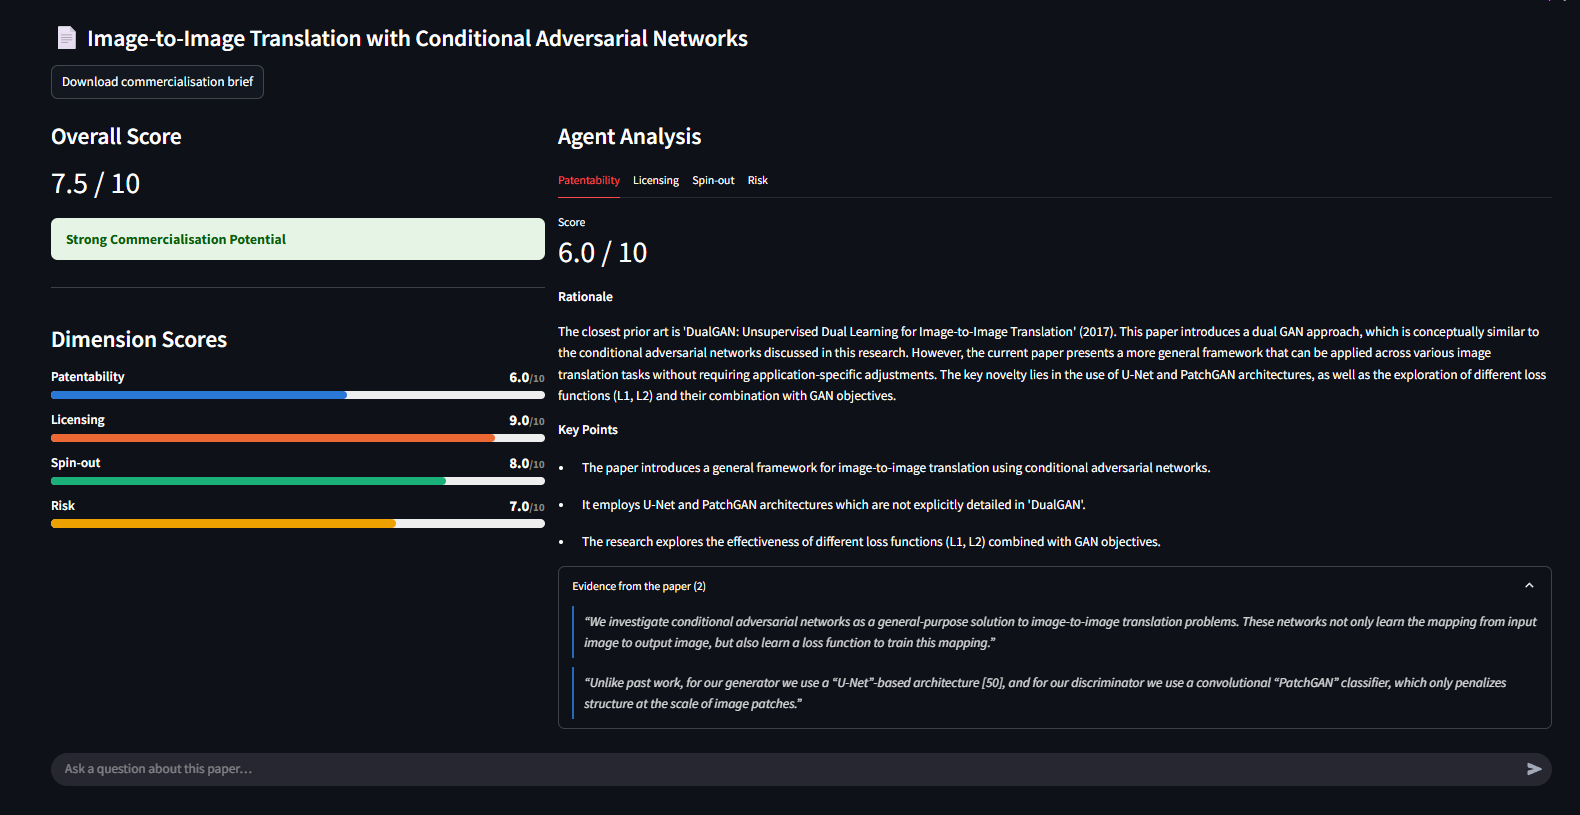
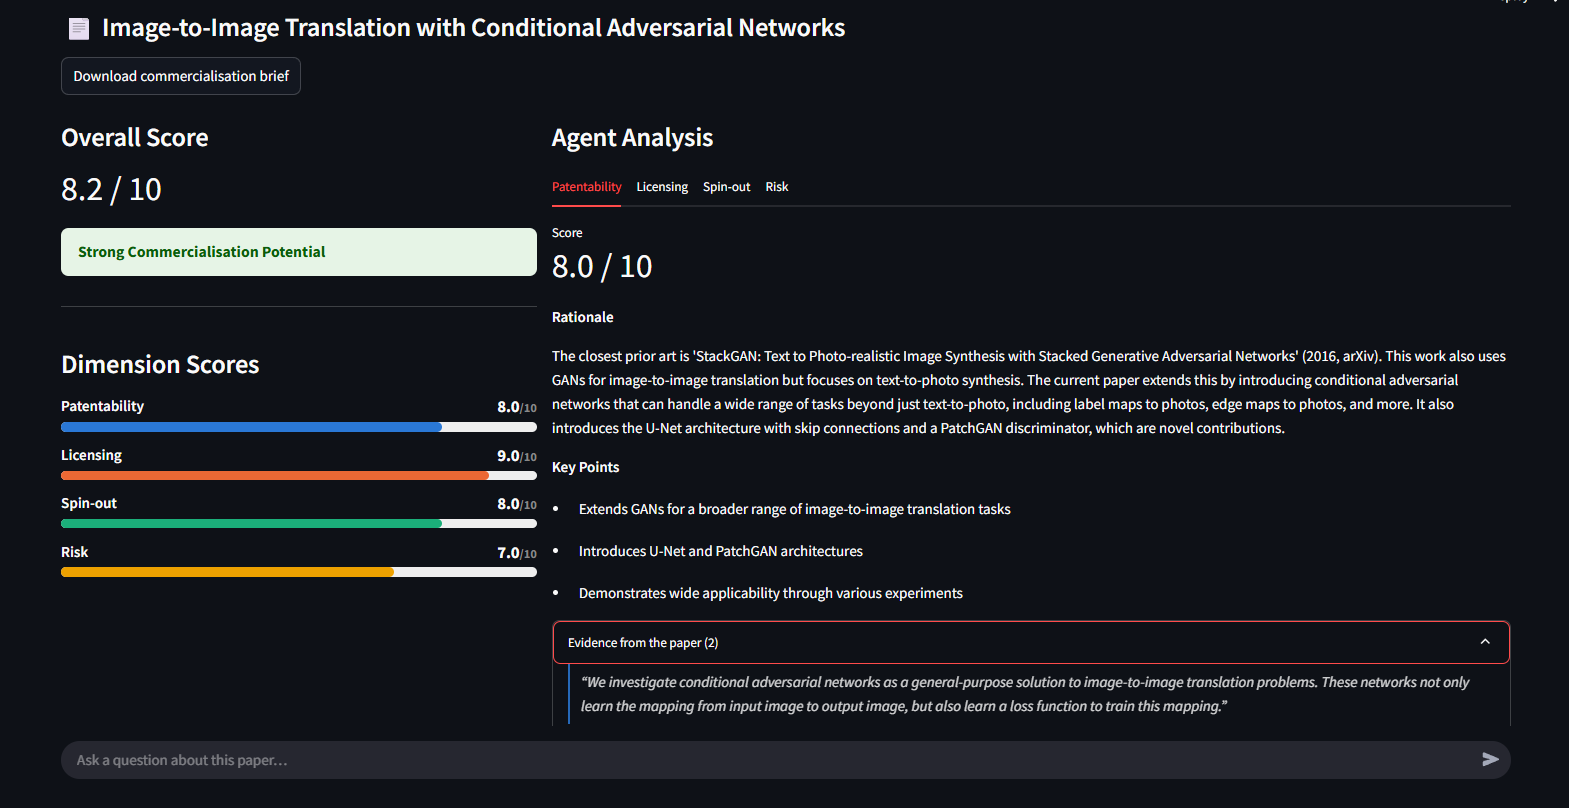
Update the README screenshot and notes after the prior-art fix
The screenshot showed the pre-fix run, whose rationale named DualGAN (2017) as
the closest prior art for a 2016 paper — the exact error the date filter was
added to remove. Replaced with the corrected run: 8.15 overall, patentability
8.0, and StackGAN (2016) named as the closest work.

Also corrects the test count to 150, notes that prior-art lookup is restricted
by publication date, and adds the two findings from testing on papers outside
the sample set: the date inversion, and arXiv margin stamps being mistaken for
titles.

diff --git a/README.md b/README.md
@@ -4,7 +4,7 @@
 
 [![Python 3.9+](https://img.shields.io/badge/python-3.9%2B-blue.svg)](https://www.python.org/downloads/)
 [![License: MIT](https://img.shields.io/badge/license-MIT-green.svg)](LICENSE)
-[![Tests](https://img.shields.io/badge/tests-140%20passing-brightgreen.svg)](tests/)
+[![Tests](https://img.shields.io/badge/tests-150%20passing-brightgreen.svg)](tests/)
 
 ResearchLens takes a PDF of an academic paper and produces a structured
 commercialisation assessment: four scored dimensions, a rationale for each,
@@ -20,10 +20,10 @@ between a tool they can use and one they can't.
 patentability agent's rationale, key points and verbatim evidence quotes on the
 right](docs/analysis-view.png)
 
-*Scoring [pix2pix](https://arxiv.org/abs/1611.07004) (Isola et al., 2016). The
-patentability rationale opens by naming the closest retrieved prior art —
-DualGAN — and argues the distinction, and every score carries quotes copied
-verbatim from the paper.*
+*Scoring [pix2pix](https://arxiv.org/abs/1611.07004) (Isola et al., 2016).
+The patentability rationale opens by naming the closest retrieved prior art —
+StackGAN, published the same year — and argues the distinction. Every score
+carries quotes copied verbatim from the paper.*
 
 ---
 
@@ -74,7 +74,8 @@ result can't silently deflate into a misleading verdict.
    stripped, two-column layouts restored to reading order.
 3. **Embedding** — overlapping 800-word chunks vectorised locally into ChromaDB.
 4. **Prior-art lookup** — the title is searched against
-   [OpenAlex](https://openalex.org) for genuinely similar published work.
+   [OpenAlex](https://openalex.org), restricted to work published no later than
+   the paper itself.
 5. **Scoring** — four agents, each retrieving the passages relevant to its own
    concerns, each returning schema-validated structured output.
 6. **Verdict** — weighted, banded, stored as a versioned run.
@@ -127,7 +128,7 @@ local install. Loaded at import time, so changes need a restart.
 ## Tests
 
 ```bash
-python -m pytest        # 140 tests, ~12s
+python -m pytest        # 150 tests, ~13s
 ```
 
 The suite stubs the language model and the network, so it runs anywhere without
@@ -165,6 +166,18 @@ files — so selecting four PDFs started four simultaneous analyses, exactly the
 thrashing the sequential design existed to prevent. Analyses now queue behind a
 lock, with a cap on how many may queue, because a waiting analysis occupies a
 worker thread the API endpoints also draw on.
+
+**Prior art has to predate the paper.** Retrieval sorted purely by relevance, so
+for a 2016 paper all six results were published later — 2017 to 2020 — including
+the one the agent named as "the closest prior art". Nothing published after a
+paper can bear on its novelty. Adding a date filter took results postdating the
+paper from six of six to zero of eight, and moved its patentability score from
+6.0 to 8.0.
+
+**The largest text on page one isn't always the title.** arXiv prints its
+identifier down the left margin at 20pt, larger than the paper's own 14.3pt
+title, so every arXiv preprint was titled `arXiv:1611.07004v3 [cs.CV] 26 Nov
+2018`. Rotated text is now excluded from title detection.
 
 **Evidence quotes are mandatory output.** They make a score checkable in seconds
 and are the practical defence against a plausible-sounding invented rationale.
